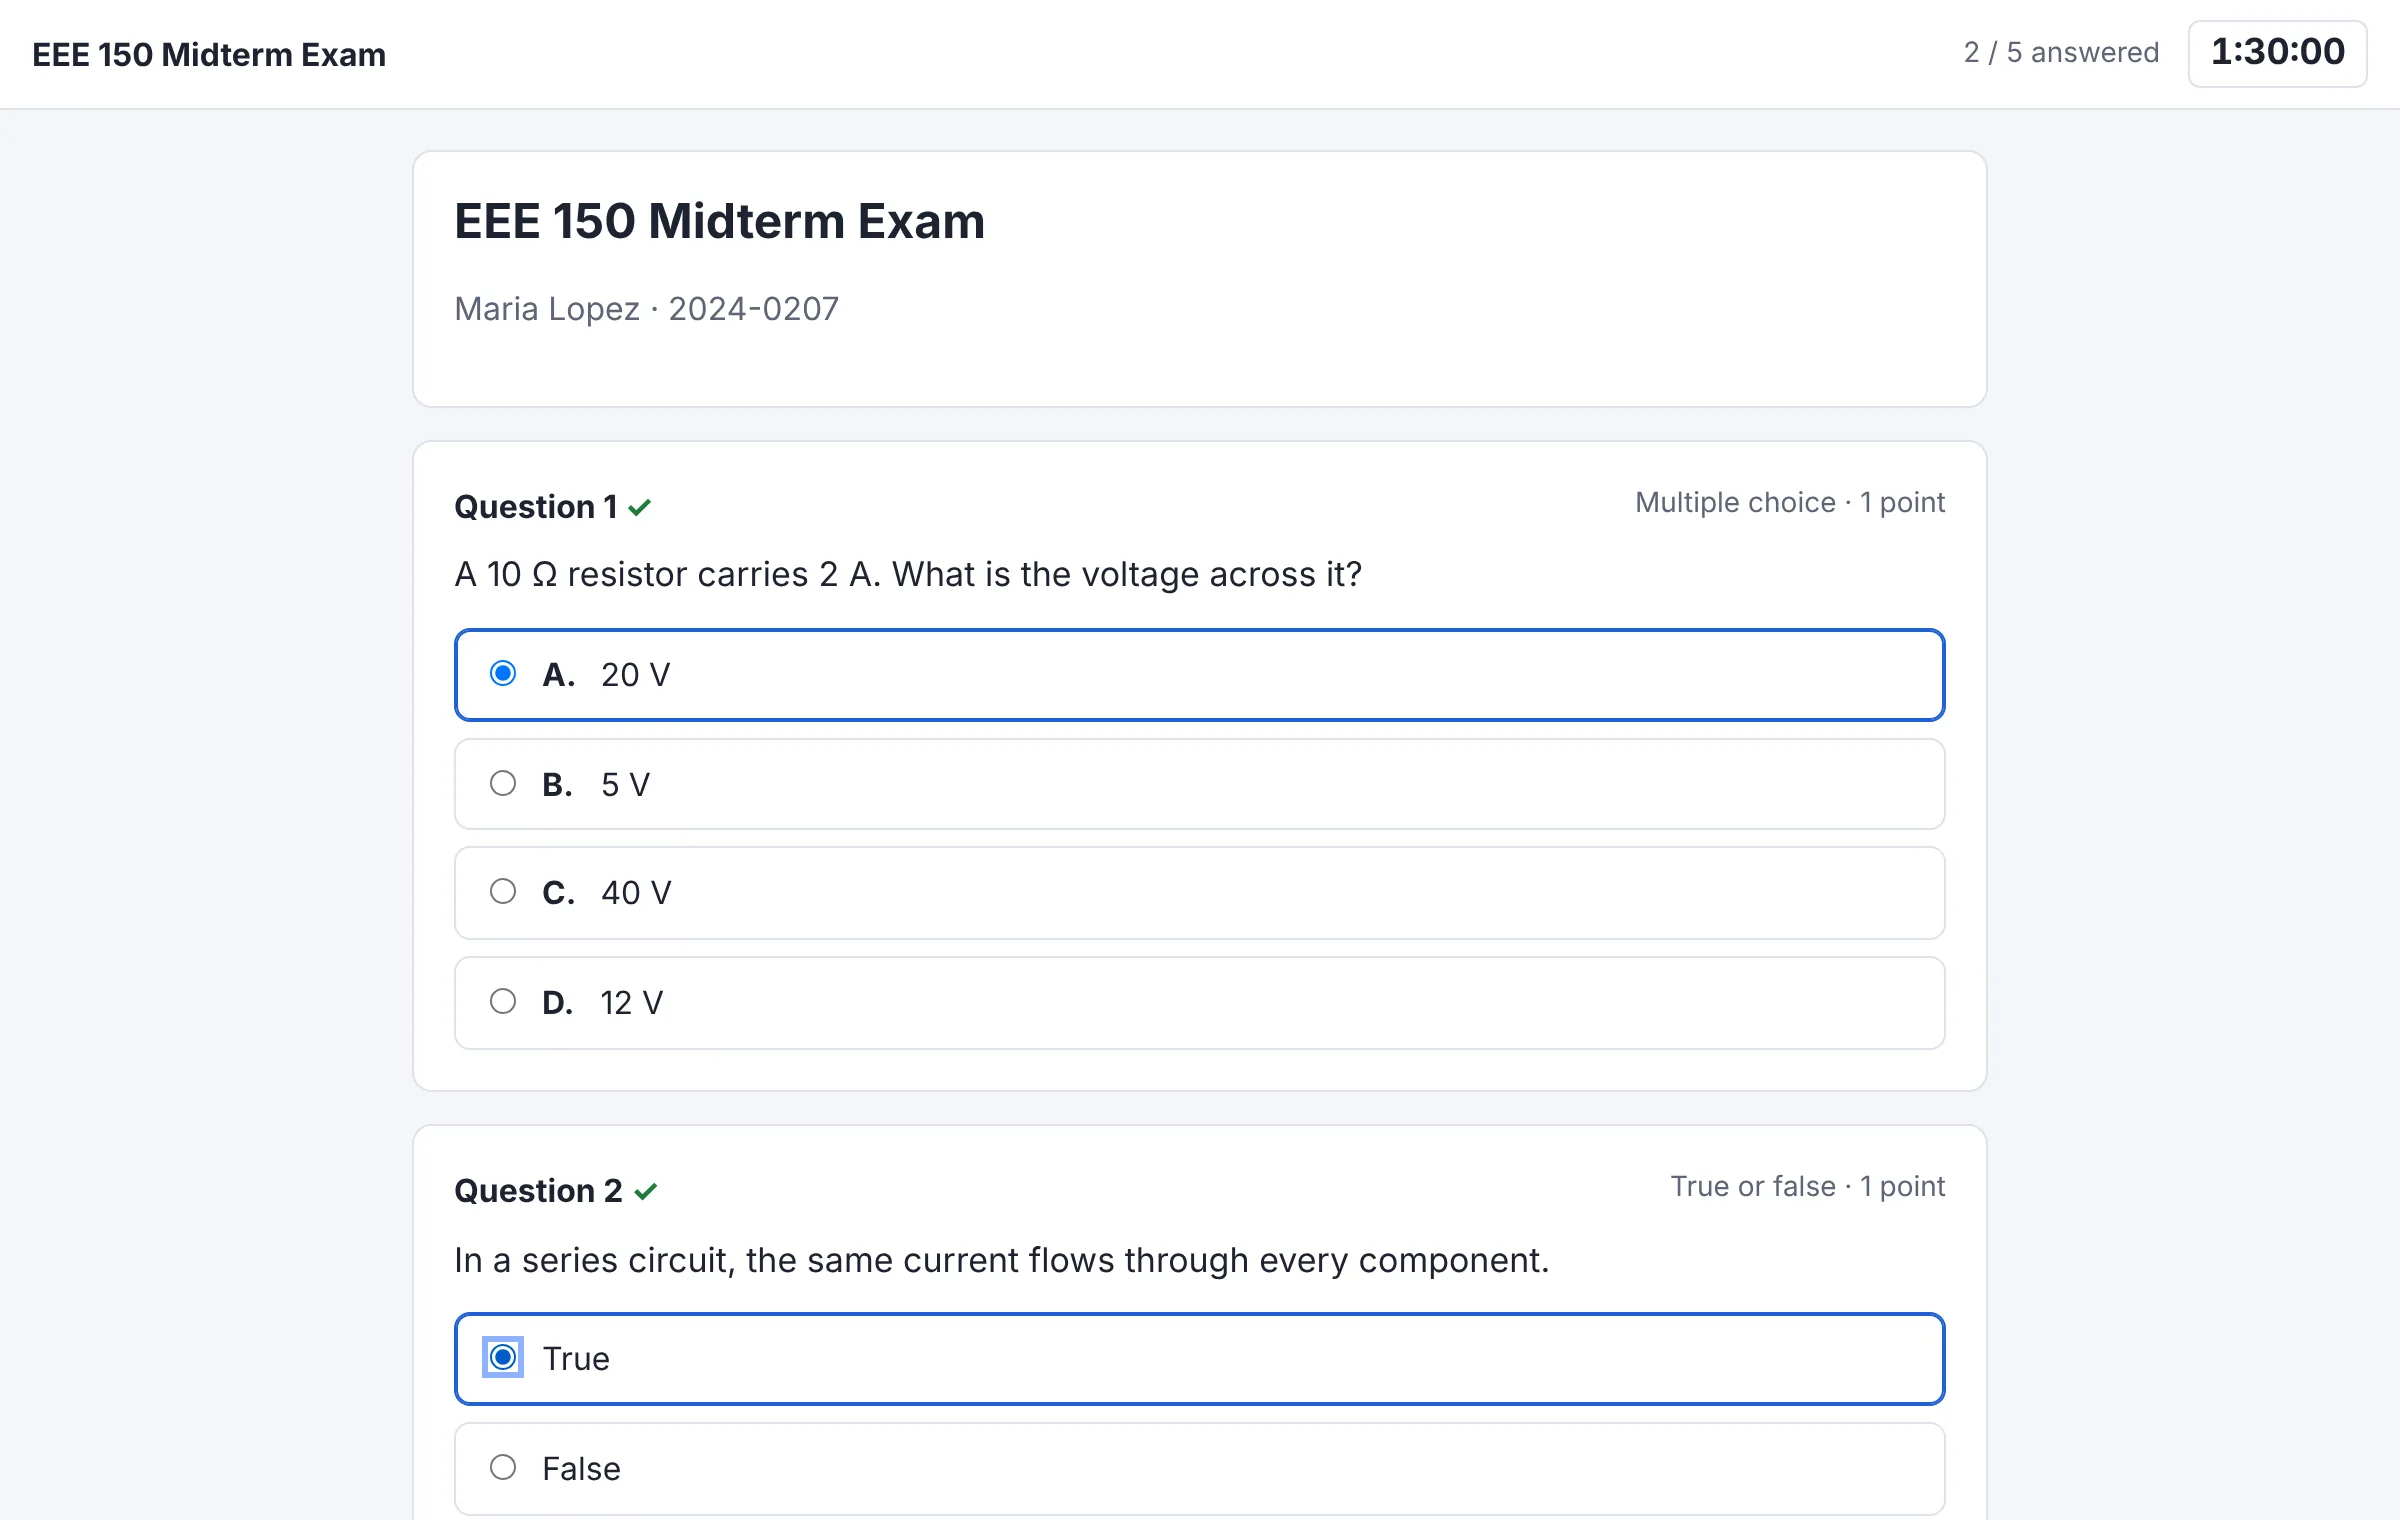
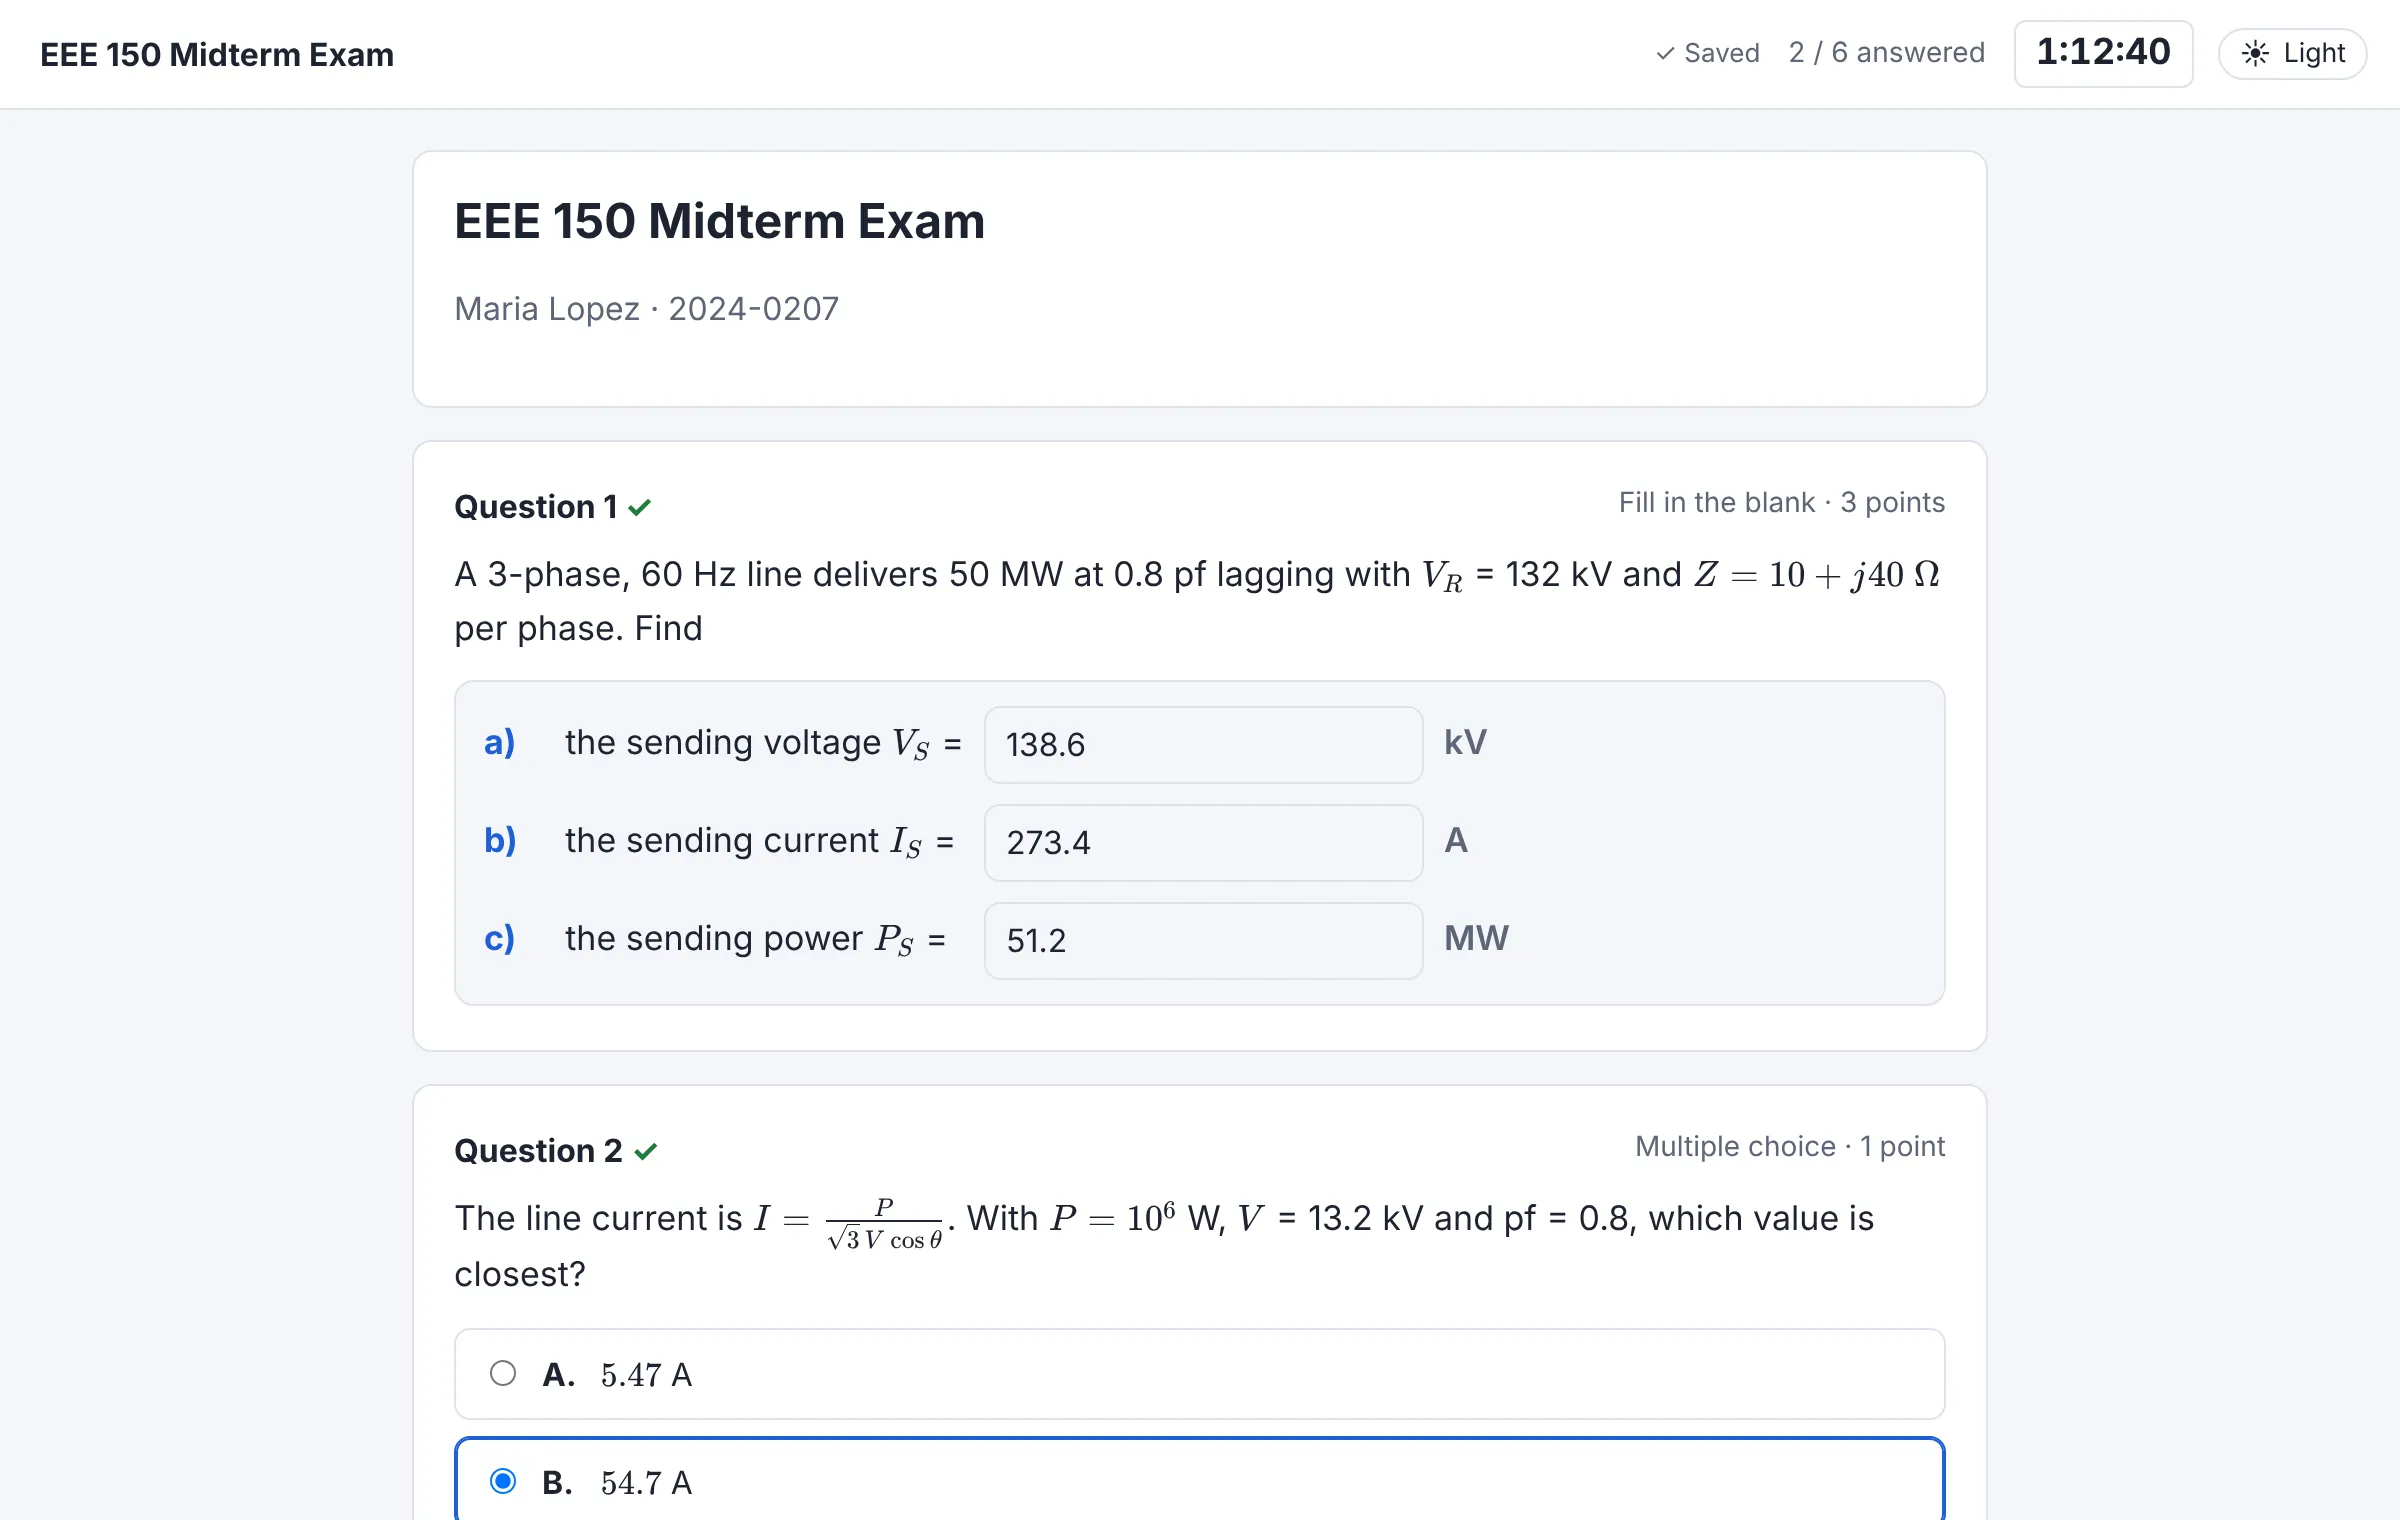
Home page: current features and a new exam screen picture
Security levels and Safe Exam Browser, camera checks, weak/no internet, math and
answer lines, per-topic/type picks, rank and statistics, backups and spam check.

Claude-Session: https://claude.ai/code/session_017ohRXQu7qyA4B5CDNgvVdy

diff --git a/public/index.html b/public/index.html
@@ -88,7 +88,7 @@
         <button type="button" class="btn light big" data-signup="student">Create a free student account</button>
         <button type="button" class="btn ghost big" data-signup="teacher">I'm a teacher</button>
       </div>
-      <ul class="ticks"><li>Free for students</li><li>Automatic grading</li><li>Works on computers and tablets</li></ul>
+      <ul class="ticks"><li>Free for students</li><li>Automatic grading</li><li>Works with weak internet</li><li>Practice to Strict security</li></ul>
     </div>
 
     <div class="auth" id="auth" aria-label="Sign in or create an account">
@@ -153,8 +153,8 @@
       <div class="card"><h3>For teachers</h3><p class="who" id="teacherStart">Start with an access code or credits</p>
         <ol class="steps">
           <li><div><b>Create a class</b><span>Each class gets its own join code to share with students.</span></div></li>
-          <li><div><b>Build your question bank</b><span>Multiple choice, true/false, fill in the blank and essays, with pictures and topics. Import from a spreadsheet.</span></div></li>
-          <li><div><b>Schedule an exam</b><span>Set when it opens and closes, the time limit, and the security you want.</span></div></li>
+          <li><div><b>Build your question bank</b><span>Multiple choice, true/false, fill in the blank and essays, with pictures, math and topics. Drag in a spreadsheet to add many at once.</span></div></li>
+          <li><div><b>Schedule an exam</b><span>Set when it opens and closes and the time limit, then pick a security level: Practice, Standard or Strict.</span></div></li>
           <li><div><b>See results instantly</b><span>Scores are calculated on submit. Grade essays, allow retakes, download to Excel.</span></div></li>
         </ol></div>
     </div>
@@ -164,15 +164,16 @@
     <div class="split">
       <div><div class="frame"><div class="chrome"><i></i><i></i><i></i></div>
         <img src="/assets/shot-exam.webp" width="2400" height="1520" loading="lazy" alt="Exam screen with a countdown timer, answered-question counter and multiple-choice questions."></div>
-        <p class="caption">The exam screen</p></div>
+        <p class="caption">The exam screen: math drawn properly, one answer line per blank</p></div>
       <div>
-        <h2 id="secH">A secure exam screen</h2>
-        <p class="sub">Students are told the rules before they start. Every event is logged for the teacher.</p>
+        <h2 id="secH">Security you choose with one click</h2>
+        <p class="sub">Pick a level for each exam. Students are told the rules before they start, and every event is logged for the teacher.</p>
         <ul class="checklist">
-          <li><div><b>Leaving the exam voids it</b><span>Switching tabs or apps, Alt+Tab, or a second monitor ends the attempt.</span></div></li>
-          <li><div><b>Optional camera check</b><span>Face visible at the start, or throughout: warnings (you choose how many), then void. No video is recorded.</span></div></li>
-          <li><div><b>Fair timing</b><span>A countdown on the server's clock, auto-submit at zero, and warnings before time runs out.</span></div></li>
-          <li><div><b>Bad internet isn't a failure</b><span>Students can reconnect within a minute and continue where they left off.</span></div></li>
+          <li><div><b>Practice, Standard or Strict</b><span>From relaxed practice quizzes to midterms. Each level sets everything for you; Custom lets you fine-tune.</span></div></li>
+          <li><div><b>Strict: Safe Exam Browser</b><span>The free exam browser locks the computer: no other apps, websites, AI helpers, screen sharing, remote control or second screen.</span></div></li>
+          <li><div><b>Camera checks, no video recorded</b><span>Face, hands and desk, a phone in view, camera software refused, random face checks and pictures. Warnings first, then void.</span></div></li>
+          <li><div><b>Leaving the exam counts</b><span>Switching tabs or apps, leaving full screen or a second monitor: warnings you choose, then void.</span></div></li>
+          <li><div><b>Bad internet isn't a failure</b><span>Answers are kept on the device and sent when the internet is back. No internet at all? Students download the exam and hand in by QR code.</span></div></li>
         </ul>
       </div>
     </div>
@@ -182,12 +183,15 @@
     <h2 id="featH">Built for real classrooms</h2>
     <p class="sub">Everything a teacher needs to run quizzes, long exams and midterms online.</p>
     <div class="features">
-      <div class="feature"><svg viewBox="0 0 24 24" fill="none" stroke="currentColor" stroke-width="2" aria-hidden="true"><path d="M9 11l3 3L22 4"/><path d="M21 12v7a2 2 0 0 1-2 2H5a2 2 0 0 1-2-2V5a2 2 0 0 1 2-2h11"/></svg><b>Automatic grading</b><span>Multiple choice, true/false and fill-in-the-blank are scored on submit. You grade the essays.</span></div>
-      <div class="feature"><svg viewBox="0 0 24 24" fill="none" stroke="currentColor" stroke-width="2" aria-hidden="true"><path d="M4 4h16v16H4z"/><path d="M4 9h16M9 9v11"/></svg><b>Reusable question bank</b><span>Pictures, topics and points per question. Import or export as a spreadsheet.</span></div>
-      <div class="feature"><svg viewBox="0 0 24 24" fill="none" stroke="currentColor" stroke-width="2" aria-hidden="true"><path d="M16 3h5v5M4 20L21 3M21 16v5h-5M15 15l6 6M4 4l5 5"/></svg><b>A different set per student</b><span>Shuffle questions and choices, or pick 10 of 50, even 5 easy and 5 hard per student.</span></div>
-      <div class="feature"><svg viewBox="0 0 24 24" fill="none" stroke="currentColor" stroke-width="2" aria-hidden="true"><circle cx="12" cy="13" r="8"/><path d="M12 9v4l3 2M9 2h6"/></svg><b>Schedules and time limits</b><span>Opening and closing times, per-exam or per-question limits, and an exam password.</span></div>
-      <div class="feature"><svg viewBox="0 0 24 24" fill="none" stroke="currentColor" stroke-width="2" aria-hidden="true"><rect x="3" y="4" width="12" height="16" rx="1"/><path d="M15 8h4a2 2 0 0 1 2 2v8a2 2 0 0 1-2 2h-4"/></svg><b>Computers and tablets</b><span>Choose per exam: computers only, computers and tablets, or any device.</span></div>
-      <div class="feature"><svg viewBox="0 0 24 24" fill="none" stroke="currentColor" stroke-width="2" aria-hidden="true"><path d="M3 3v18h18"/><path d="M7 15l4-4 3 3 6-6"/></svg><b>Results you can use</b><span>Class averages, every answer, an event log, retakes, and downloads for Excel.</span></div>
+      <div class="feature"><svg viewBox="0 0 24 24" fill="none" stroke="currentColor" stroke-width="2" aria-hidden="true"><path d="M9 11l3 3L22 4"/><path d="M21 12v7a2 2 0 0 1-2 2H5a2 2 0 0 1-2-2V5a2 2 0 0 1 2-2h11"/></svg><b>Automatic grading</b><span>Multiple choice, true/false and fill-in-the-blank are scored on submit. Numbers within a range (122.5 ± 1%), several blanks with partial points, close spellings flagged for you.</span></div>
+      <div class="feature"><svg viewBox="0 0 24 24" fill="none" stroke="currentColor" stroke-width="2" aria-hidden="true"><path d="M4 20h4l9-16"/><path d="M14 14l6 6M20 14l-6 6"/></svg><b>Math and engineering</b><span>Subscripts, powers, fractions and symbols drawn properly (<i>V</i><sub>S</sub>, 10<sup>−3</sup>, Ω, √3). Each blank of a problem gets its own answer line.</span></div>
+      <div class="feature"><svg viewBox="0 0 24 24" fill="none" stroke="currentColor" stroke-width="2" aria-hidden="true"><path d="M4 4h16v16H4z"/><path d="M4 9h16M9 9v11"/></svg><b>Reusable question bank</b><span>Folders, pictures (paste a screenshot), topics and points. Drag in a spreadsheet to import; export any time.</span></div>
+      <div class="feature"><svg viewBox="0 0 24 24" fill="none" stroke="currentColor" stroke-width="2" aria-hidden="true"><path d="M16 3h5v5M4 20L21 3M21 16v5h-5M15 15l6 6M4 4l5 5"/></svg><b>A different set per student</b><span>Shuffle questions and choices, or pick per topic and per type: say 3 from Long Lines and 10 multiple choice from the rest.</span></div>
+      <div class="feature"><svg viewBox="0 0 24 24" fill="none" stroke="currentColor" stroke-width="2" aria-hidden="true"><circle cx="12" cy="13" r="8"/><path d="M12 9v4l3 2M9 2h6"/></svg><b>Schedules and time limits</b><span>Opening and closing times, per-exam or per-question limits, an exam password, and extra time for one student when needed.</span></div>
+      <div class="feature"><svg viewBox="0 0 24 24" fill="none" stroke="currentColor" stroke-width="2" aria-hidden="true"><path d="M5 12.5a10 10 0 0 1 14 0M8.5 16a5 5 0 0 1 7 0"/><circle cx="12" cy="19.5" r="1"/><path d="M3 3l18 18"/></svg><b>Weak or no internet</b><span>Answers are saved on the device and sent later. Offline exams are downloaded ahead and handed in with a receipt code or a QR code.</span></div>
+      <div class="feature"><svg viewBox="0 0 24 24" fill="none" stroke="currentColor" stroke-width="2" aria-hidden="true"><rect x="3" y="4" width="12" height="16" rx="1"/><path d="M15 8h4a2 2 0 0 1 2 2v8a2 2 0 0 1-2 2h-4"/></svg><b>Computers, tablets, phones</b><span>Choose per exam which devices are allowed. Light and dark look on every page.</span></div>
+      <div class="feature"><svg viewBox="0 0 24 24" fill="none" stroke="currentColor" stroke-width="2" aria-hidden="true"><path d="M3 3v18h18"/><path d="M7 15l4-4 3 3 6-6"/></svg><b>Results you can use</b><span>Class mean, median and each student's rank; every answer and event; grade essays, help one student continue, download for Excel.</span></div>
+      <div class="feature"><svg viewBox="0 0 24 24" fill="none" stroke="currentColor" stroke-width="2" aria-hidden="true"><path d="M12 3l8 3v6c0 4.5-3.4 8.3-8 9-4.6-.7-8-4.5-8-9V6z"/><path d="M9 12l2 2 4-4"/></svg><b>Safe and backed up</b><span>Nightly backups, site updates wait until no one is taking an exam, and sign-up is protected against spam accounts.</span></div>
     </div>
   </section>
 
